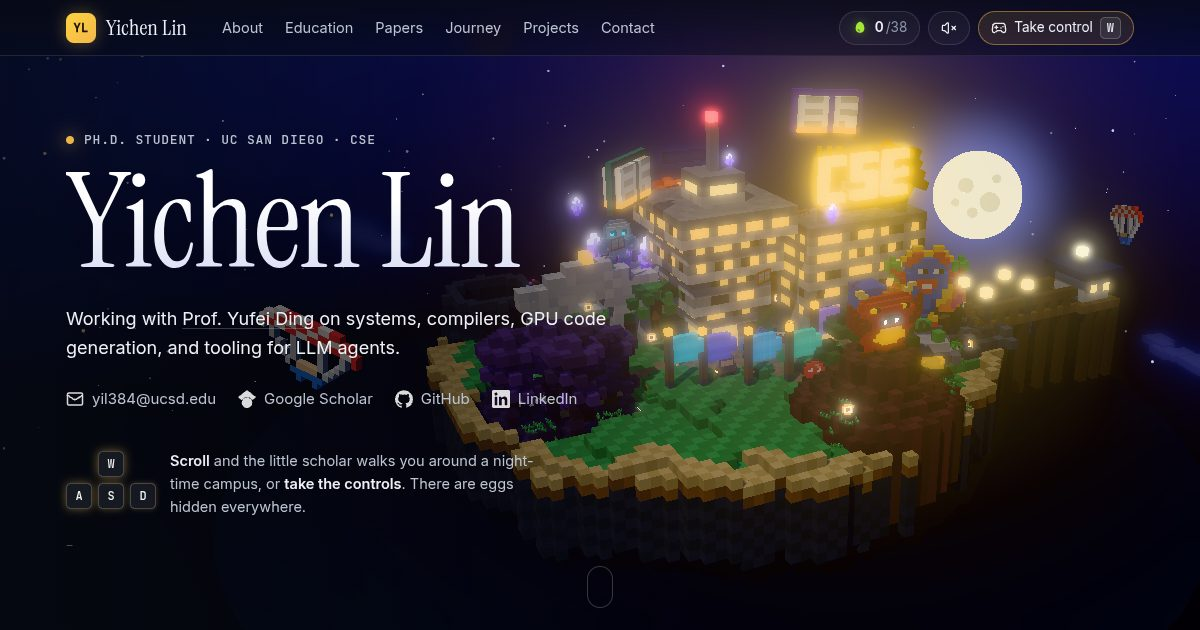
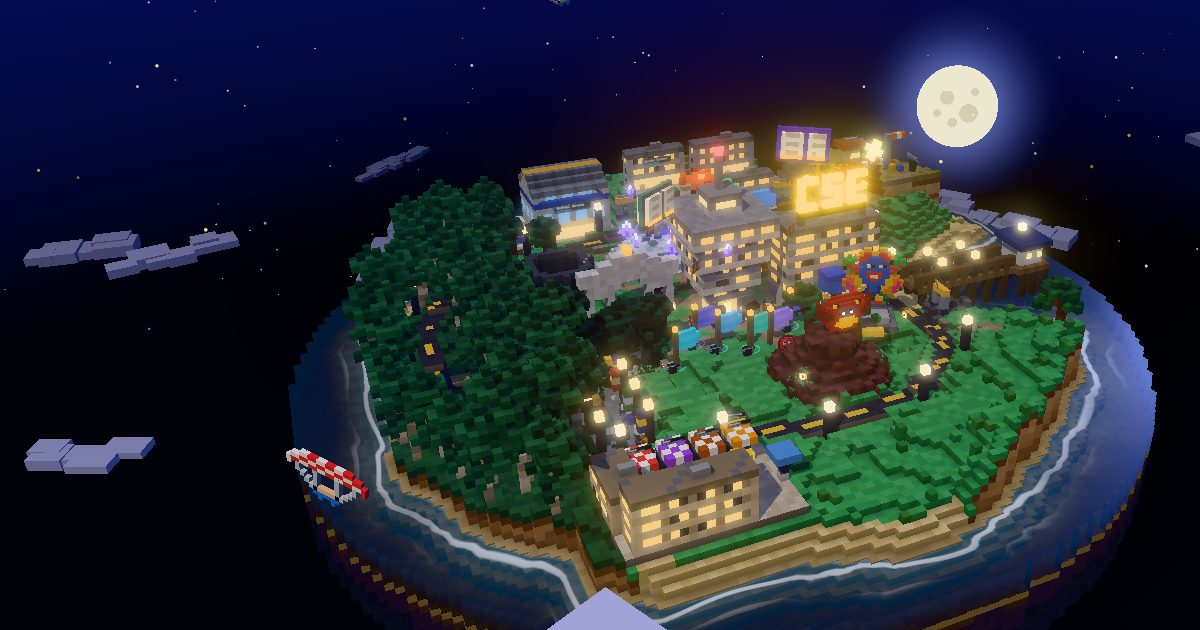
First paint shows the new island: loading posters re-baked from the live hero shot (desktop + a phone-path tall one, tools/dev/poster.mjs), og image too; the intro is a gentle push-in from that exact shot instead of a swing from somewhere else. Speech bubbles step out of each other's way; phones run
Claude-Session: https://claude.ai/code/session_012M3W324rpzBTXEfoinxjqW

diff --git a/assets/js/game3d/index.js b/assets/js/game3d/index.js
@@ -371,7 +371,7 @@ export async function createGame({ worldEl, root, progress = () => {} }) {
   // ---- loop ----
   let awakeUntil = performance.now() + 2500;   // under reduced motion, render only while something is happening
   let last = performance.now();
-  let lastRaf = last, lastRender = 0, slowT = 0, fastT = 0, frameNo = 0;
+  let lastRaf = last, lastRender = 0, slowT = 0, fastT = 0, frameNo = 0, ambDt = 0;
   // ?perf=1: per-frame probe (simulation ms, render-submit ms, draw calls, triangles) on window.__perf
   const perf = q.get('perf') === '1' ? { n: 0, sim: 0, render: 0, calls: 0, tris: 0, reset() { Object.assign(this, { n: 0, sim: 0, render: 0, calls: 0, tris: 0 }); } } : null;
   if (perf) window.__perf = perf;
@@ -382,7 +382,7 @@ export async function createGame({ worldEl, root, progress = () => {} }) {
     frameNo++;
     if (mode.play) {
       tickPlay(dt, t);
-      updateHud();
+      if (!coarse || frameNo % 2 === 0) updateHud();   // phones: vitals and tracker at 30 Hz
       setHudFlags({ fp: rig.firstPerson, vehicle: player.vehicle });
       if (touch) {
         if (frameNo % 6 === 0) useTag = useReady();
@@ -403,7 +403,9 @@ export async function createGame({ worldEl, root, progress = () => {} }) {
     updateWeapon(modalOpen() ? 0 : dt, { vehicle: player.vehicle });
     placeActors(dt);
     rig.update(player, mode.play ? input : null, dt, t, { eye: vehicleEye() });
-    ambient.update(modalOpen() ? 0 : dt, rig.cam);
+    // phones: the campus crowd (walkers, skaters, the shuttle) moves at 30 Hz, half the CPU
+    if (!lowfx) ambient.update(modalOpen() ? 0 : dt, rig.cam);
+    else { ambDt += dt; if (frameNo % 2 === 0) { ambient.update(modalOpen() ? 0 : ambDt, rig.cam); ambDt = 0; } }
     // islander name plates only show when the camera is close enough to read them
     const near = mode.play || rig.cur.dist < 48;
     if (near !== where.near) { where.near = near; worldEl.classList.toggle('is-near', near); }
@@ -708,9 +710,11 @@ export async function createGame({ worldEl, root, progress = () => {} }) {
 
   // ---- the opening fly-in ----
   function intro() {
-    const s = stage.shots.hero;
-    rig.jump({ look: [s.look[0] - 6, s.look[1] + 8, s.look[2]], yaw: s.yaw + 1.5, pitch: 0.62, dist: s.dist * 2.1, fov: 34, shiftX: 0 });
-    rig.tourRate = 0.75;
+    // the loading poster is this very shot (tools/dev/poster.mjs): start on it, a touch further out, and
+    // ease in. No swing: the island the page opened on must not turn into another one.
+    rig.settle();
+    rig.jump({ ...rig.want, look: [rig.want.look.x, rig.want.look.y, rig.want.look.z], dist: rig.want.dist * 1.06 });
+    rig.tourRate = 0.9;
     setTimeout(() => { rig.tourRate = 2.2; }, 3600);
   }
   if (q.get('intro') !== '0' && !reducedMotion.matches) intro();

diff --git a/assets/js/game3d/fx.js b/assets/js/game3d/fx.js
@@ -109,12 +109,13 @@ export function updateFx(dt) {
   const ck = `${e[12].toFixed(3)},${e[13].toFixed(3)},${e[14].toFixed(3)},${e[8].toFixed(4)},${e[9].toFixed(4)},${e[10].toFixed(4)},${size.w},${size.h}`;
   const camMoved = ck !== camKey;
   camKey = ck;
+  const bubbles = [];                  // speech bubbles placed this frame: later ones step up out of the way
   for (const p of pins) {
     if ((p.region && p.region !== where.id) || (p.nearOnly && !where.near)) { showPin(p, false); continue; }
     const w = p.getPos();
     if (!w) { showPin(p, false); continue; }
     const pk = `${w.x.toFixed(2)},${w.y.toFixed(2)},${w.z.toFixed(2)}`;
-    if (!camMoved && p.shown && pk === p.pk) continue;
+    if (!p.clamp && !camMoved && p.shown && pk === p.pk) continue;
     p.pk = pk;
     const s = project(w.x, w.y, w.z);
     if (!s || s.sx < -300 || s.sx > size.w + 300 || s.sy < -300 || s.sy > size.h + 300) { showPin(p, false); continue; }
@@ -128,6 +129,12 @@ export function updateFx(dt) {
       if (tail !== p.tail) { p.tail = tail; p.el.style.setProperty('--tail', `${tail}px`); }
       sx = cx;
       sy = Math.min(Math.max(sy, p.h + 64), size.h - m);
+      for (let i = 0; i < 4; i++) {
+        const hit = bubbles.find((r) => Math.abs(r.x - sx) < (r.w + p.w) / 2 + 6 && sy > r.y - r.h - 6 && sy - p.h < r.y + 6);
+        if (!hit) break;
+        sy = hit.y - hit.h - 8;
+      }
+      bubbles.push({ x: sx, y: sy, w: p.w, h: p.h });
     }
     const tx = `translate(-50%, -100%) translate(${sx.toFixed(0)}px, ${sy.toFixed(0)}px)`;
     if (tx !== p.tx) { p.tx = tx; p.el.style.transform = tx; }

diff --git a/assets/css/site.css b/assets/css/site.css
@@ -60,7 +60,7 @@ html.is-play #world { touch-action: none; }
 .world__poster {
   position: absolute; inset: 0;
   background:
-    url('../img/world-poster.jpg') 62% 46% / cover no-repeat,
+    url('../img/world-poster.jpg') 50% 50% / cover no-repeat,
     radial-gradient(70% 60% at 68% 42%, rgba(60, 60, 150, 0.5), transparent 70%),
     var(--bg);
   transition: opacity 1.1s ease 0.15s;
@@ -68,6 +68,10 @@ html.is-play #world { touch-action: none; }
 #world .g__canvas { position: absolute; inset: 0; width: 100%; height: 100%; opacity: 0; transition: opacity 0.9s ease; }
 body.world-live #world .g__canvas { opacity: 1; }
 body.world-live .world__poster { opacity: 0; }
+/* the poster is the hero shot itself, baked at both aspects (tools/dev/poster.mjs) */
+@media (max-aspect-ratio: 4/5) {
+  .world__poster { background-image: url('../img/world-poster-tall.jpg'), radial-gradient(70% 60% at 68% 42%, rgba(60, 60, 150, 0.5), transparent 70%); }
+}
 /* a soft scrim on the side that carries text, so type stays legible over bright parts of the world */
 #world::after {
   content: ''; position: absolute; inset: 0; pointer-events: none; transition: opacity 0.6s;

diff --git a/index.html b/index.html
@@ -45,7 +45,8 @@
   <link rel="preload" href="assets/fonts/instrument-serif-latin-400-normal.woff2" as="font" type="font/woff2" crossorigin>
   <link rel="preload" href="assets/fonts/inter-latin-400-normal.woff2" as="font" type="font/woff2" crossorigin>
   <link rel="preload" href="assets/fonts/silkscreen-latin-400-normal.woff2" as="font" type="font/woff2" crossorigin>
-  <link rel="preload" href="assets/img/world-poster.jpg" as="image" fetchpriority="high">
+  <link rel="preload" href="assets/img/world-poster.jpg" as="image" fetchpriority="high" media="(min-aspect-ratio: 4/5)">
+  <link rel="preload" href="assets/img/world-poster-tall.jpg" as="image" fetchpriority="high" media="(max-aspect-ratio: 4/5)">
   <link rel="stylesheet" href="assets/css/fonts.css">
   <link rel="stylesheet" href="assets/css/site.css">
   <link rel="stylesheet" href="assets/css/game.css">
